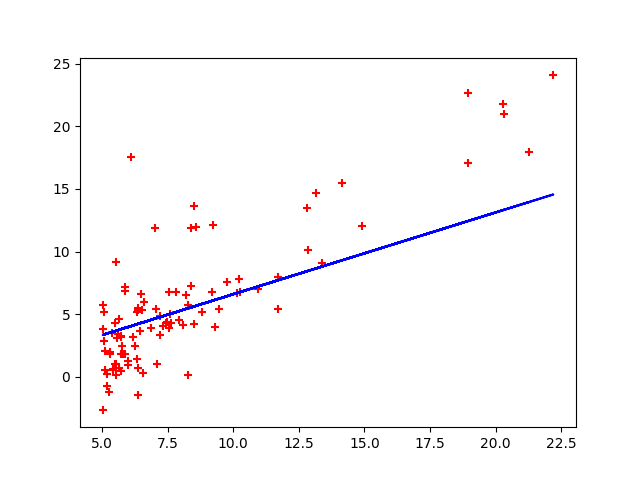
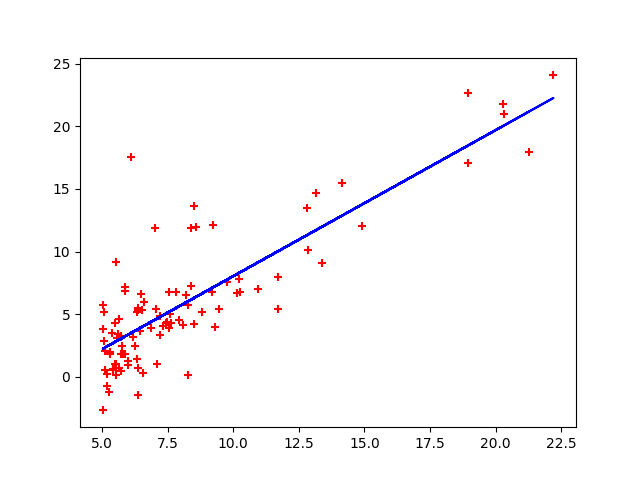
primera parte regresion lineal, coste minimizado

diff --git a/RegresionLineal/regresionLineal.py b/RegresionLineal/regresionLineal.py
@@ -50,11 +50,12 @@ def descenso_gradiente(X, Y, alpha):
     stop = 0.1
     Theta = np.array([0., 0.])
     i = 0
-    # for i in range(1000):
-    return gradiente(X, Y, Theta, alpha)
-    coste_valor = coste(X, Y, NuevaTheta)
-    print("NuevaTheta:" + NuevaTheta)
-    # print("coste_valor:"+coste_valor)
+    for i in range(1500):
+        Theta = gradiente(X, Y, Theta, alpha)
+        costes = coste(X, Y, Theta)
+        print(Theta,costes)
+
+    return Theta, costes
 
 
 """
@@ -91,12 +92,11 @@ def pintarPuntos(X, Y):
     plt.clf()
 """
 
-
 def pintarPuntos(X, Y, Theta):
     plt.scatter(X, Y, marker='+', color='red')
     plt.plot(X, Theta[0] + Theta[1] * X, linestyle='-', color='blue')
     plt.savefig('mc.png')
-    # plt.show()
+    #plt.show()
     plt.clf()
 
 
@@ -127,7 +127,7 @@ def main():
     # añadimos una columna de 1's a la X
     X = np.hstack([np.ones([m, 1]), X])
     alpha = 0.01
-    Thetas = descenso_gradiente(X, Y, alpha)
+    Thetas,costes = descenso_gradiente(X, Y, alpha)
 
     pintarPuntos(X[:, 1], Y, Thetas)
 
